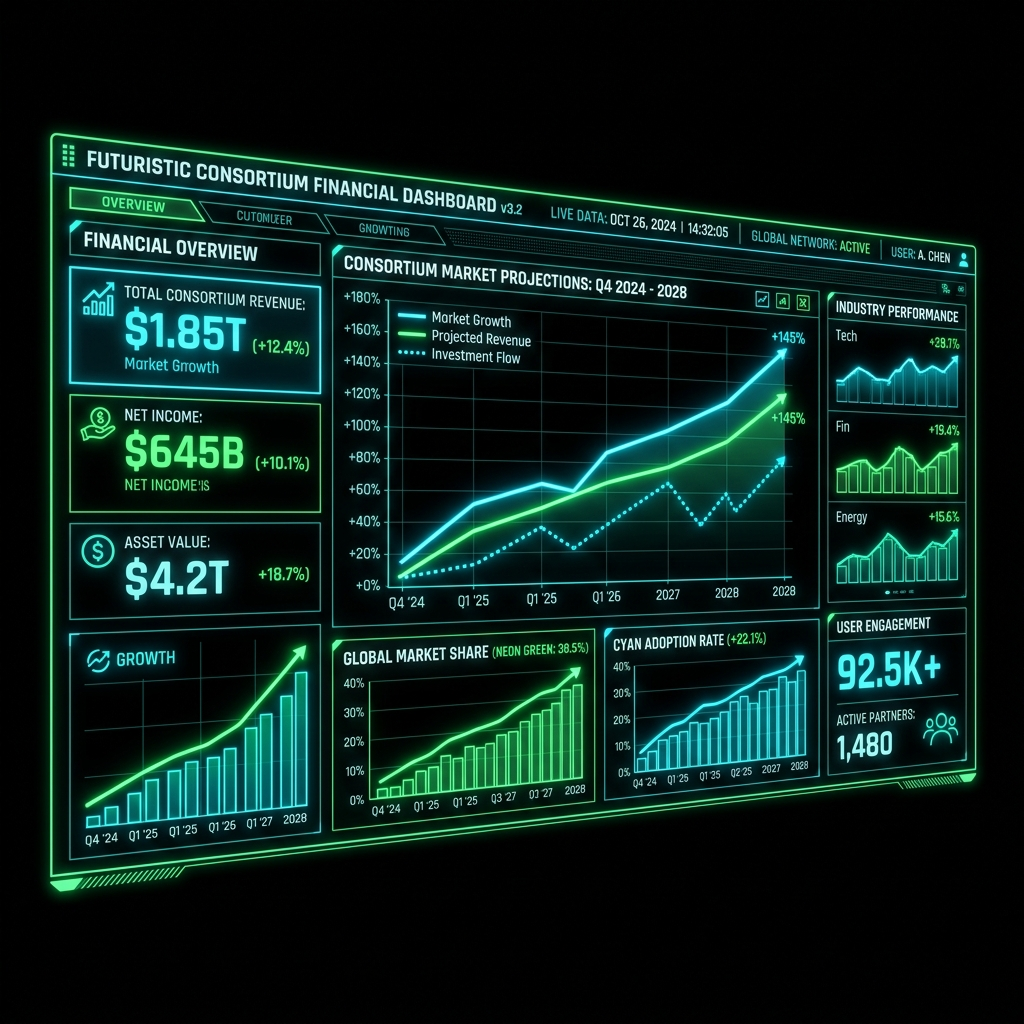
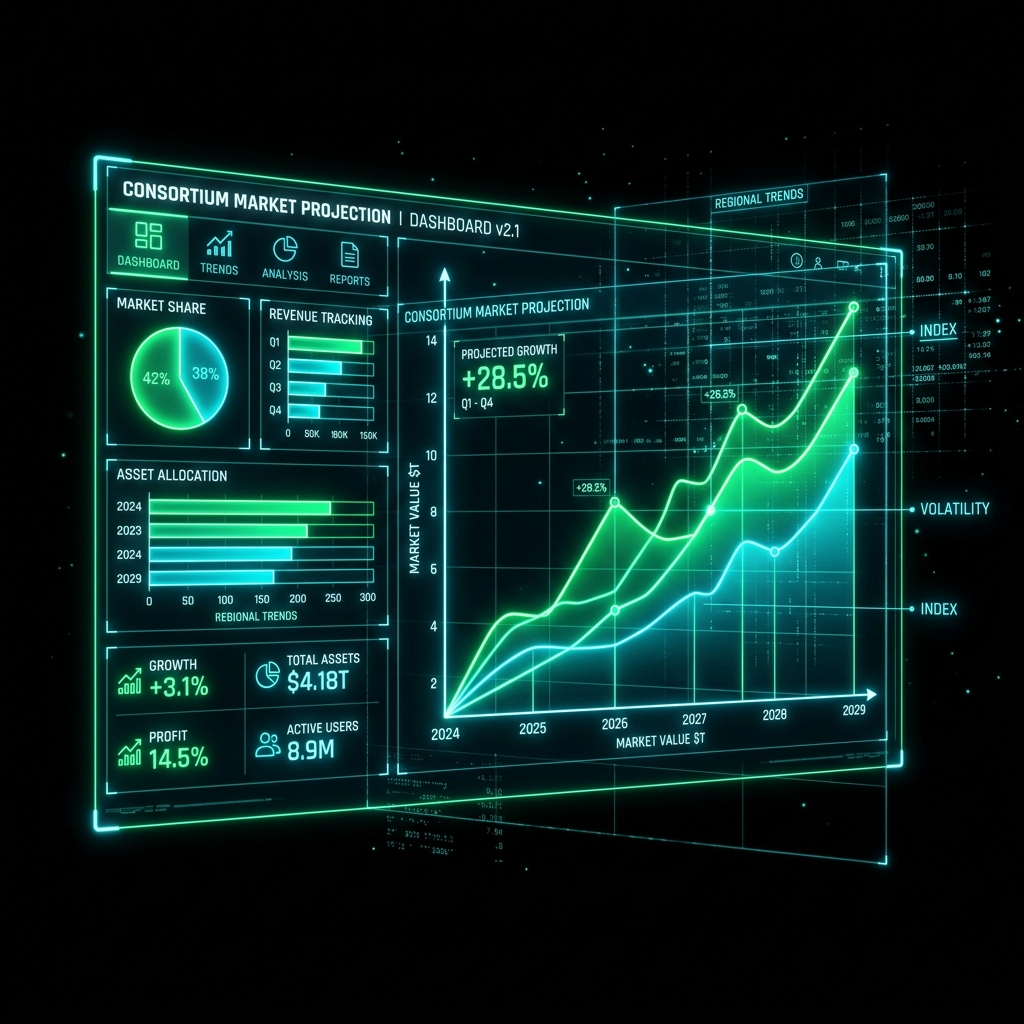
Update hologram projection to float in front of the VR goggles with enhanced graphics

diff --git a/style.css b/style.css
@@ -273,21 +273,22 @@ html, body {
 
 .statue-hover {
   position: absolute;
-  top: 15%; /* Position to align directly over the VR goggles */
-  left: 23%;
-  width: 53%; /* Size relative to the VR goggles lenses */
-  height: 25%;
+  top: 5%; /* Higher and wider to float in front of the goggles */
+  left: 10%;
+  width: 75%; /* Covers more area for projected graphics */
+  height: 45%;
   z-index: 2;
   opacity: 0;
-  border-radius: 20px;
-  mix-blend-mode: screen; /* Makes black backgrounds of the charts 100% transparent/invisible */
-  transition: opacity 0.4s ease, transform 0.4s ease;
+  border-radius: 10px;
+  mix-blend-mode: screen; /* Blends the black background of the hologram cleanly */
+  transition: opacity 0.4s cubic-bezier(0.16, 1, 0.3, 1), transform 0.4s cubic-bezier(0.16, 1, 0.3, 1);
   pointer-events: none;
+  transform: scale(0.9) translateY(10px); /* Start slightly smaller and lower */
 }
 
 .statue-hover-container:hover .statue-hover {
   opacity: 0.95;
-  transform: scale(1.05); /* Slight pop effect for the charts projection */
+  transform: scale(1.05) translateY(-5px); /* Pops up and forward in front of the goggles */
 }
 
 .gradient-overlay {